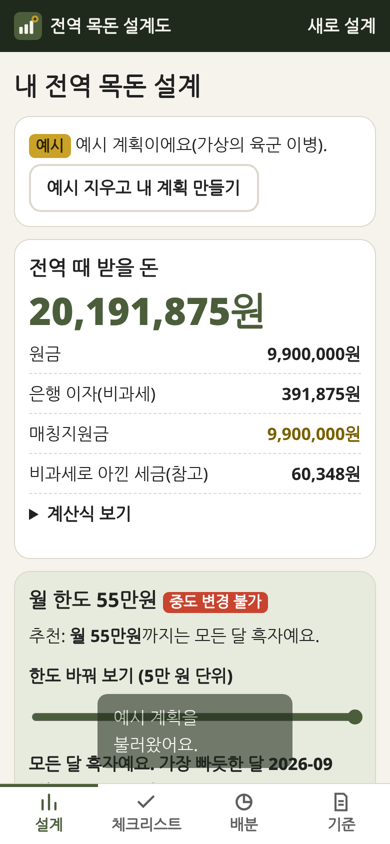
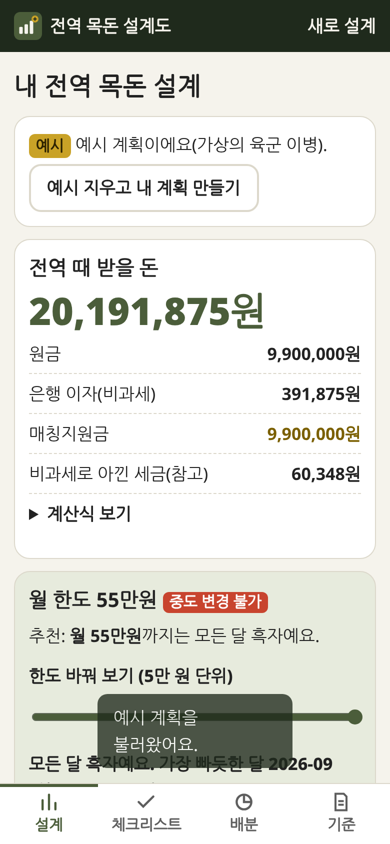
Fix 2026-11-02 전역 목돈 설계도 monthly table overflow

Changed region(s): [[0.2462, 0.8009, 0.7692, 0.9242]]

diff --git a/2026-11-02-discharge-savings-plan/styles.css b/2026-11-02-discharge-savings-plan/styles.css
@@ -38,7 +38,7 @@ input[aria-invalid=true]{border-color:var(--bad)}
 .chart{display:block;height:auto}
 .warn{border-left:6px solid var(--gold);padding:8px 10px;margin:8px 0;background:var(--card);border-radius:8px}
 .warn.red{border-left-color:var(--bad);background:var(--bad-l)}
-.tbl-wrap{overflow-x:auto}.tbl{width:100%;border-collapse:collapse;font-size:15px}.tbl th,.tbl td{padding:6px 3px;border-bottom:1px solid var(--line);text-align:left}.tbl .n{text-align:right;white-space:nowrap}.tbl tr.neg td{color:var(--bad);font-weight:800}
+.tbl-wrap{overflow-x:auto}.tbl{width:100%;border-collapse:collapse;font-size:14px;font-variant-numeric:tabular-nums;letter-spacing:-.2px}.tbl th,.tbl td{padding:6px 2px;border-bottom:1px solid var(--line);text-align:left}.tbl .n{text-align:right;white-space:nowrap}.tbl .tag{font-size:12px;padding:0 4px}@media (max-width:380px){.tbl{font-size:13px;letter-spacing:-.3px}}.tbl tr.neg td{color:var(--bad);font-weight:800}
 .ck{display:flex;gap:10px;align-items:flex-start;padding:10px 0;border-bottom:1px solid var(--line);min-height:48px}.ck input{width:24px;height:24px;margin-top:3px;flex:none;accent-color:var(--ol)}
 .ck.hot{background:var(--bad-l);border-radius:8px;padding:10px 6px}
 .disc{font-size:16px;background:var(--card);border:1px solid var(--gold);border-radius:12px;padding:10px 12px;margin:14px 0}

diff --git a/2026-11-02-discharge-savings-plan/sw.js b/2026-11-02-discharge-savings-plan/sw.js
@@ -1,4 +1,4 @@
-const C='discharge-savings-plan-v1';
+const C='discharge-savings-plan-v2';
 const A=['./','index.html','styles.css','rules.js','app.js','data/rules.json','data/pay.json','data/holidays.json','manifest.webmanifest','icon.svg','icon-192.png','favicon-32.png','privacy.html'];
 self.addEventListener('install',e=>{e.waitUntil(caches.open(C).then(c=>c.addAll(A)).then(()=>self.skipWaiting()))});
 self.addEventListener('activate',e=>{e.waitUntil(caches.keys().then(ks=>Promise.all(ks.filter(k=>k.startsWith('discharge-savings-plan-')&&k!==C).map(k=>caches.delete(k)))).then(()=>self.clients.claim()))});
